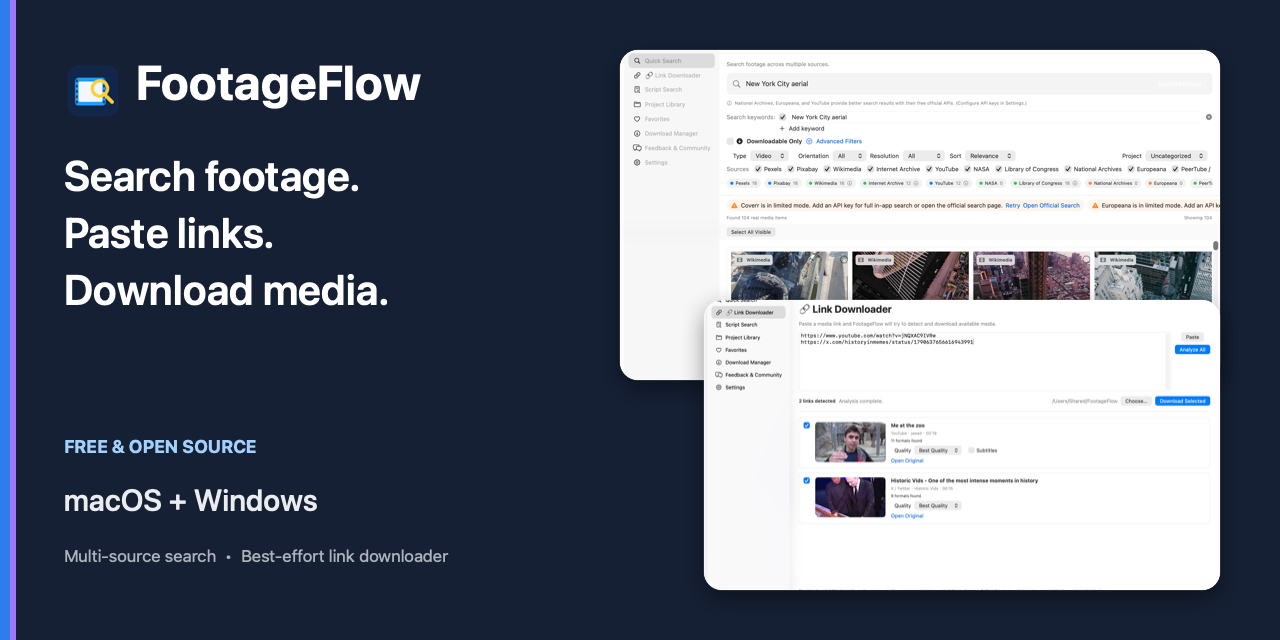
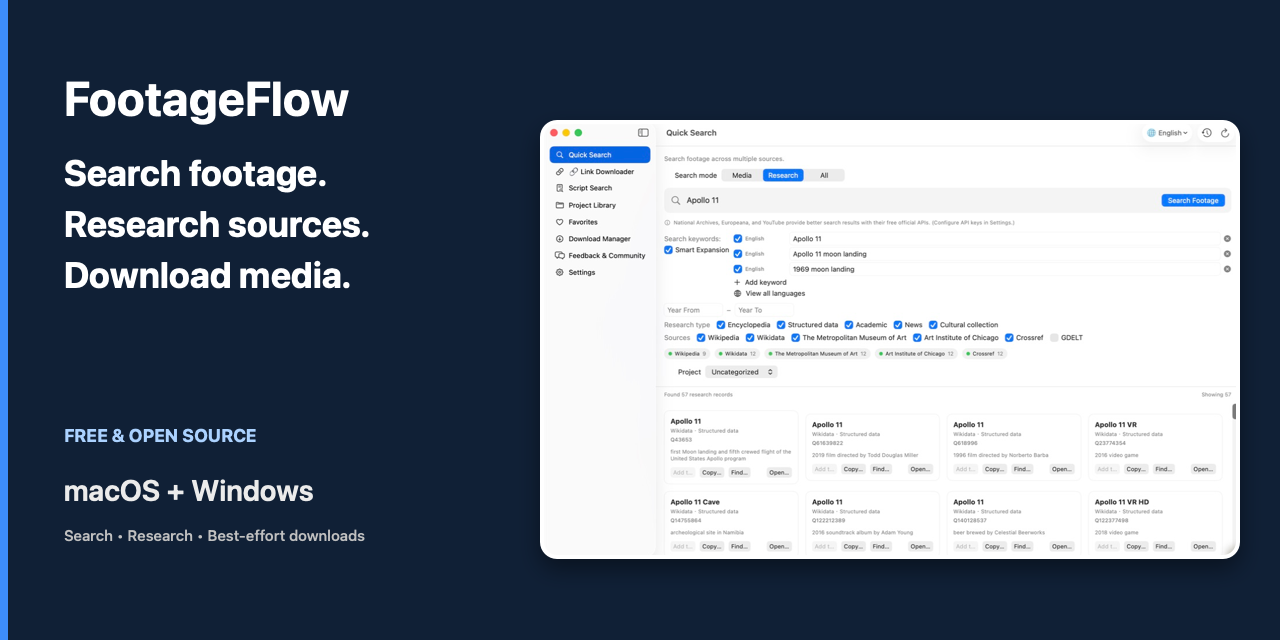
docs: refresh v0.9 repository social preview

diff --git a/Tools/generate_social_preview.swift b/Tools/generate_social_preview.swift
@@ -1,0 +1,83 @@
+import AppKit
+
+let canvasSize = NSSize(width: 1280, height: 640)
+let sourceURL = URL(fileURLWithPath: "docs/images/research-mode-v090.png")
+let outputURL = URL(fileURLWithPath: "docs/images/social-preview.png")
+
+guard let screenshot = NSImage(contentsOf: sourceURL) else {
+    fputs("Unable to load \(sourceURL.path)\n", stderr)
+    exit(1)
+}
+
+guard let bitmap = NSBitmapImageRep(
+    bitmapDataPlanes: nil,
+    pixelsWide: Int(canvasSize.width),
+    pixelsHigh: Int(canvasSize.height),
+    bitsPerSample: 8,
+    samplesPerPixel: 4,
+    hasAlpha: true,
+    isPlanar: false,
+    colorSpaceName: .deviceRGB,
+    bytesPerRow: 0,
+    bitsPerPixel: 0
+), let graphicsContext = NSGraphicsContext(bitmapImageRep: bitmap) else {
+    fputs("Unable to create graphics context\n", stderr)
+    exit(1)
+}
+
+NSGraphicsContext.saveGraphicsState()
+NSGraphicsContext.current = graphicsContext
+let context = graphicsContext.cgContext
+
+let background = NSColor(calibratedRed: 0.055, green: 0.094, blue: 0.16, alpha: 1)
+background.setFill()
+context.fill(CGRect(origin: .zero, size: canvasSize))
+
+let accent = NSColor(calibratedRed: 0.19, green: 0.46, blue: 0.98, alpha: 1)
+accent.setFill()
+context.fill(CGRect(x: 0, y: 0, width: 8, height: canvasSize.height))
+
+func drawText(_ text: String, in rect: NSRect, font: NSFont, color: NSColor, lineSpacing: CGFloat = 0) {
+    let style = NSMutableParagraphStyle()
+    style.lineSpacing = lineSpacing
+    let attributes: [NSAttributedString.Key: Any] = [
+        .font: font,
+        .foregroundColor: color,
+        .paragraphStyle: style
+    ]
+    NSAttributedString(string: text, attributes: attributes).draw(in: rect)
+}
+
+let white = NSColor.white
+drawText("FootageFlow", in: NSRect(x: 64, y: 506, width: 440, height: 64), font: .systemFont(ofSize: 48, weight: .bold), color: white)
+drawText(
+    "Search footage.\nResearch sources.\nDownload media.",
+    in: NSRect(x: 64, y: 294, width: 460, height: 195),
+    font: .systemFont(ofSize: 36, weight: .bold),
+    color: white,
+    lineSpacing: 8
+)
+drawText("FREE & OPEN SOURCE", in: NSRect(x: 64, y: 187, width: 320, height: 28), font: .systemFont(ofSize: 18, weight: .bold), color: NSColor(calibratedRed: 0.61, green: 0.78, blue: 1, alpha: 1))
+drawText("macOS + Windows", in: NSRect(x: 64, y: 129, width: 360, height: 38), font: .systemFont(ofSize: 29, weight: .semibold), color: NSColor(calibratedWhite: 0.9, alpha: 1))
+drawText("Search • Research • Best-effort downloads", in: NSRect(x: 64, y: 90, width: 455, height: 24), font: .systemFont(ofSize: 15, weight: .medium), color: NSColor(calibratedWhite: 0.7, alpha: 1))
+
+let screenshotRect = NSRect(x: 544, y: 85, width: 692, height: 431)
+let shadowRect = screenshotRect.insetBy(dx: -4, dy: -4)
+context.saveGState()
+context.setShadow(offset: CGSize(width: 0, height: -10), blur: 24, color: NSColor.black.withAlphaComponent(0.42).cgColor)
+NSColor.white.setFill()
+NSBezierPath(roundedRect: shadowRect, xRadius: 17, yRadius: 17).fill()
+context.restoreGState()
+
+context.saveGState()
+NSBezierPath(roundedRect: screenshotRect, xRadius: 13, yRadius: 13).addClip()
+screenshot.draw(in: screenshotRect, from: NSRect(origin: .zero, size: screenshot.size), operation: .sourceOver, fraction: 1)
+context.restoreGState()
+
+NSGraphicsContext.restoreGraphicsState()
+guard let png = bitmap.representation(using: .png, properties: [:]) else {
+    fputs("Unable to encode social preview\n", stderr)
+    exit(1)
+}
+try png.write(to: outputURL)
+print("Wrote \(outputURL.path)")
